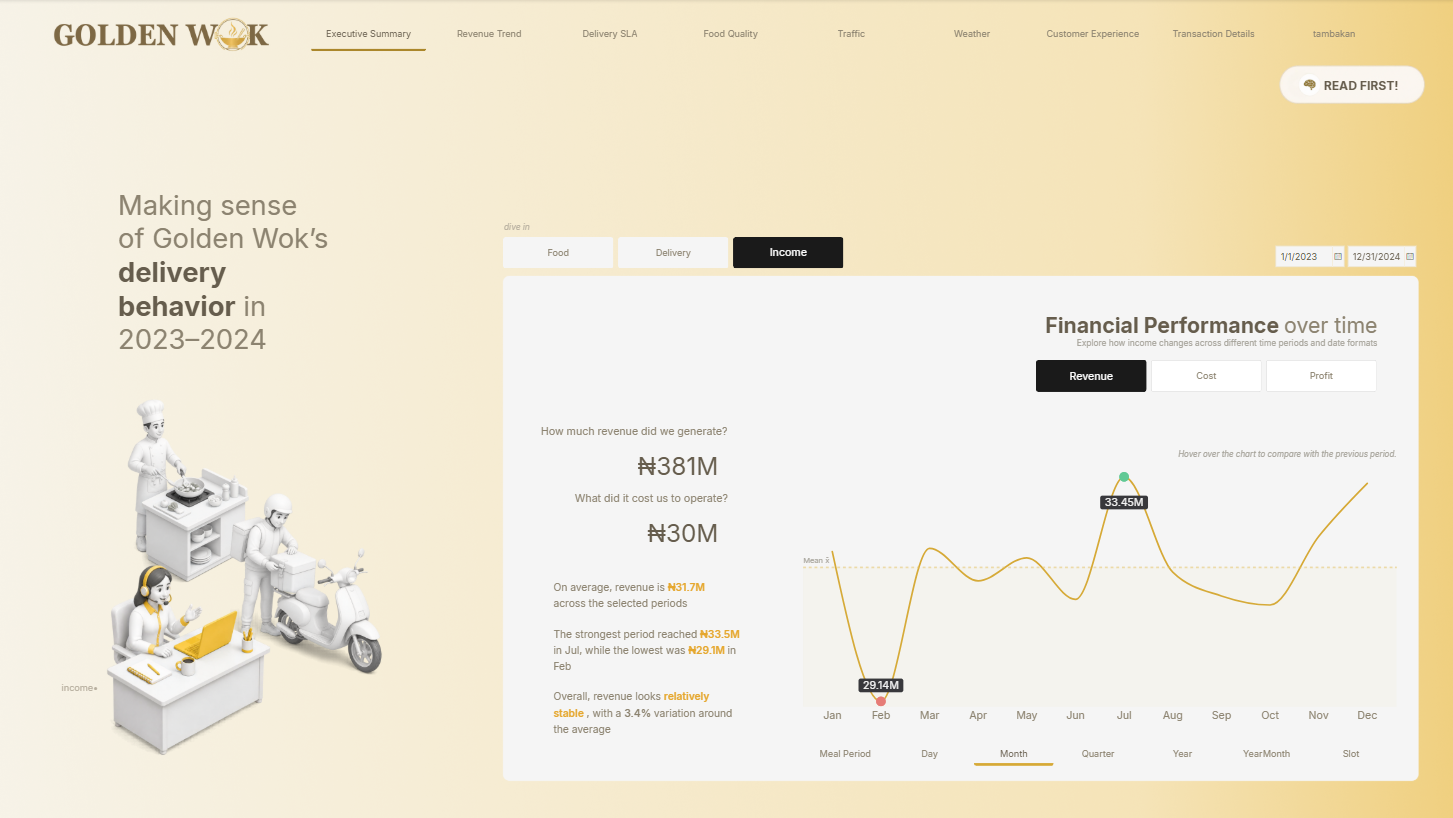
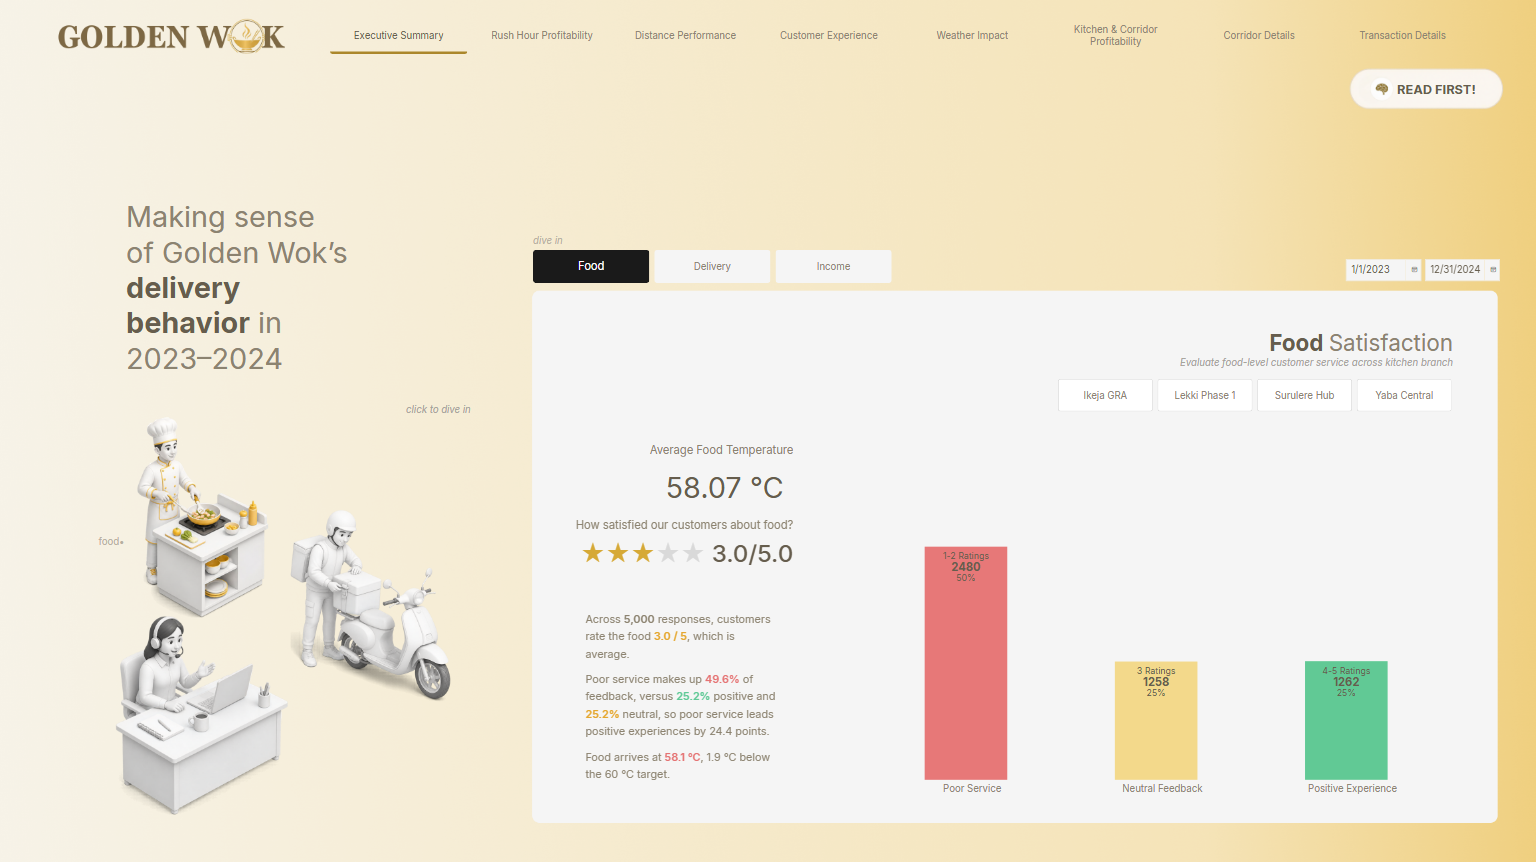
added 2 dashboard images

diff --git a/index.html b/index.html
@@ -136,7 +136,7 @@
       <article class="project-card">
         <div class="viz-frame">
           <span class="viz-tag">Static previews</span>
-          <div class="dashboard-carousel" data-carousel data-screenshots="1">
+          <div class="dashboard-carousel" data-carousel data-screenshots="3">
             <button class="carousel-arrow carousel-prev" type="button" aria-label="Previous screenshot" hidden>&lsaquo;</button>
             <img class="viz-image" src="dashboard 1 images/dashboard-01-01.png" alt="Golden Wok Delivery Analysis Power BI report screenshot 1" onerror="this.src='dashboard 1 images/dashboard-01-01.png'; this.onerror=null;">
             <button class="carousel-arrow carousel-next" type="button" aria-label="Next screenshot" hidden>&rsaquo;</button>
